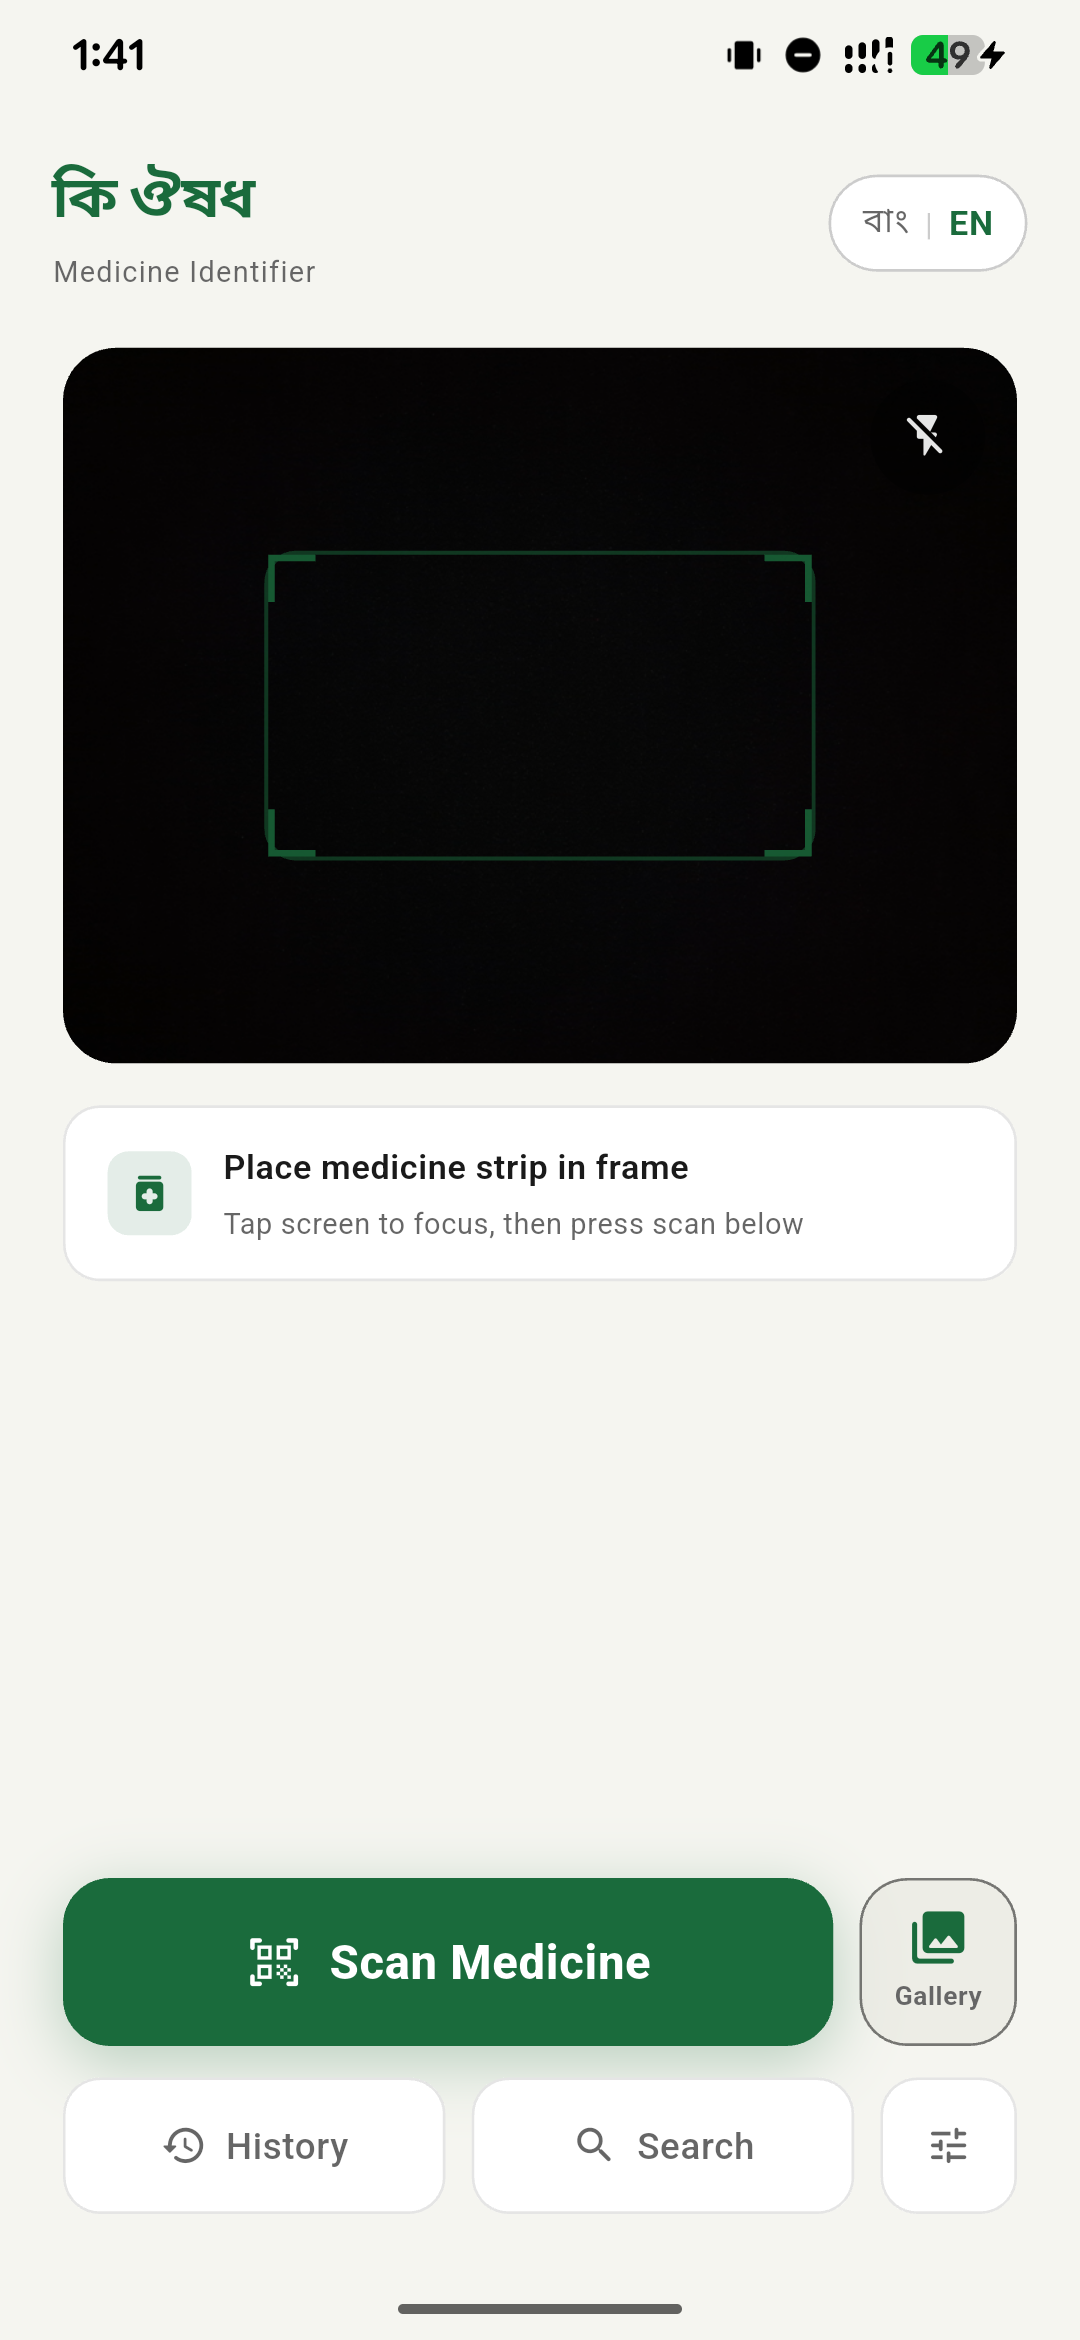
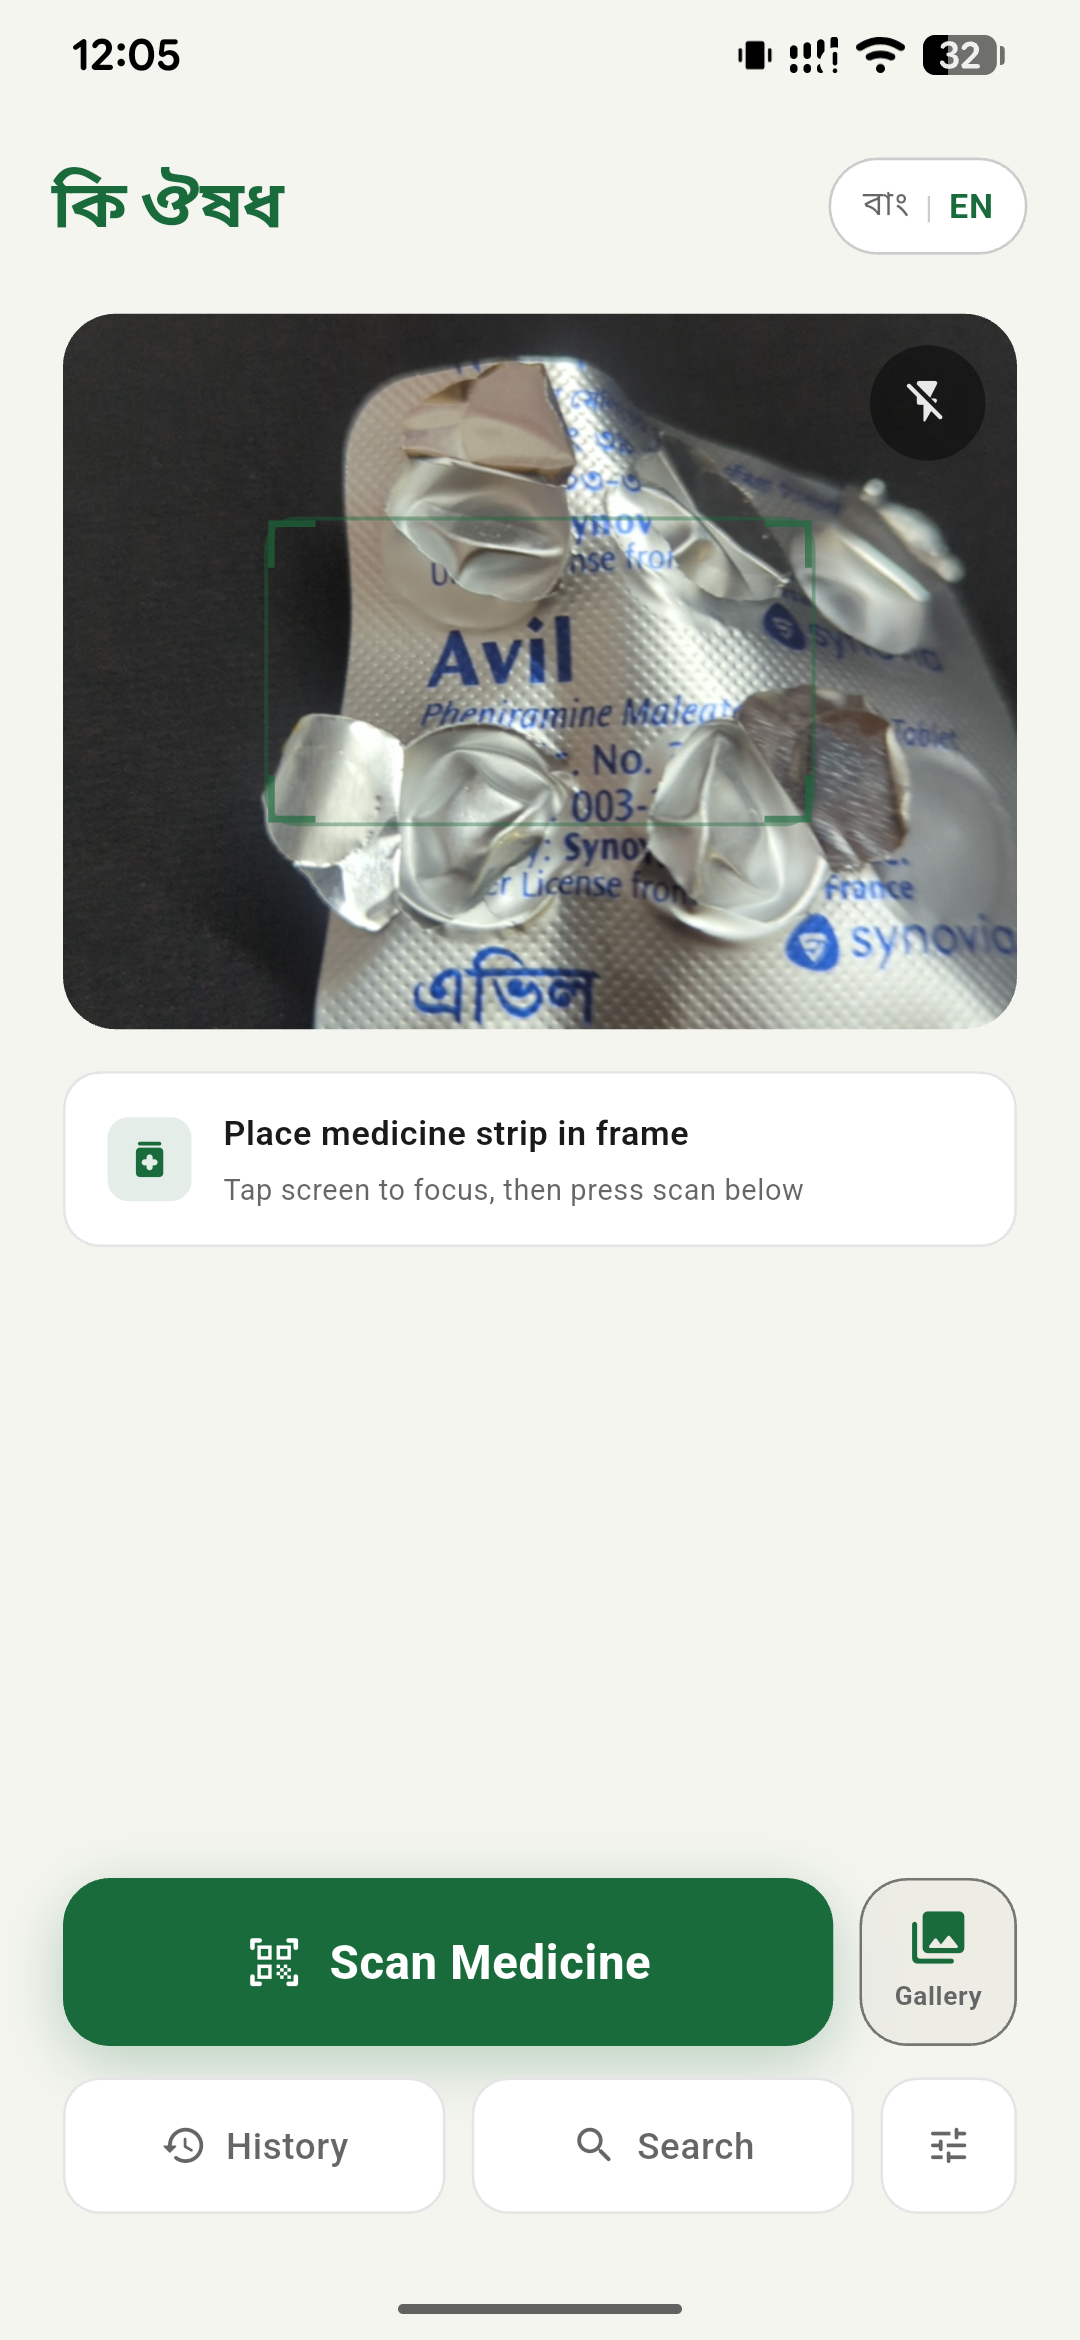
docs: update UI screenshots, fix release download links, and sync documentation

Changed region(s): [[0.0306, 0.0624, 0.9472, 0.5303], [0.6722, 0.0, 0.9472, 0.0312], [0.0917, 0.0, 0.1833, 0.0312]]

diff --git a/README.md b/README.md
@@ -15,7 +15,13 @@
 ---
 
 ## Download App (Direct Android Install)
-1. Tap **[Direct Download](https://github.com/meawsin/ki_oushodh/releases/latest/download/ki-oushudh-v1.1.0.apk)** on your Android device.
+
+| Version | Download Link | File Size | Highlights |
+|---|---|---|---|
+| **v1.1.0 (Latest)** | **[Download ki-oushudh-v1.1.0.apk](https://github.com/meawsin/ki_oushodh/releases/download/v1.1.0/ki-oushudh-v1.1.0.apk)** | ~84.6 MB | Gallery picker, offline search, TTS speed slider, UI polish |
+| **v1.0.0 (Legacy)** | **[Download ki-oushudh-v1.0.apk](https://github.com/meawsin/ki_oushodh/releases/download/v1.0.0/ki-oushudh-v1.0.apk)** | ~83.2 MB | Initial production release |
+
+1. Tap **[Direct Download v1.1.0](https://github.com/meawsin/ki_oushodh/releases/download/v1.1.0/ki-oushudh-v1.1.0.apk)** (or use the [Latest Release Mirror](https://github.com/meawsin/ki_oushodh/releases/latest/download/ki-oushudh-v1.1.0.apk)) on your Android device.
 2. Open `ki-oushudh-v1.1.0.apk` from your Downloads and tap **Install** (*enable "Install Unknown Apps" if prompted*).
 3. Open **কী ওষুধ**, grant camera permission, and scan any medicine packaging, blister packet, or pick an image from your gallery!
 
@@ -58,18 +64,18 @@ Ki Oushodh addresses this health equity gap through **Zero-Click Auditory Litera
   <img src="screenshots/06_database_info_sheet.png" width="31%" alt="DGDA Verified Offline Database Sheet" />
 </p>
 <p align="center">
-  <em>Figure 2: (Left) Identified Medicine Result with TTS, safety precautions, and Medical AI Disclaimer banner; (Center) Accessibility Settings with Voice Speed slider; (Right) Offline DGDA Database compendium sheet.</em>
+  <em>Figure 2: (Left) Identified Medicine Result with TTS, safety precautions, and Medical Disclaimer banner; (Center) Accessibility Settings with Voice Speed slider; (Right) Offline DGDA Database compendium sheet.</em>
 </p>
 
 <p align="center">
-  <img src="screenshots/07_safety_disclaimer_sheet.png" width="31%" alt="Medical and AI Safety Notice Modal Sheet" />
+  <img src="screenshots/07_gallery_picker.png" width="31%" alt="Native Android Photo Picker for Gallery Scanning" />
   &nbsp;&nbsp;
-  <img src="screenshots/08_gallery_picker.png" width="31%" alt="Native Android Photo Picker Integration" />
+  <img src="screenshots/08_gallery_picker_result.png" width="31%" alt="Result Found from Gallery Scanning" />
   &nbsp;&nbsp;
   <img src="screenshots/09_scan_history.png" width="31%" alt="Swipeable 30-Day Encrypted Local Scan History" />
 </p>
 <p align="center">
-  <em>Figure 3: (Left) Clinical Safety & Emergency 999 Guidance Bottom Sheet; (Center) Native Android photo picker for gallery scanning; (Right) Encrypted local scan history with audio replay.</em>
+  <em>Figure 3: (Left) Native Android photo picker for gallery scanning; (Center) Result found from the gallery scanning; (Right) Encrypted local scan history with audio replay.</em>
 </p>
 
 ---
@@ -227,7 +233,8 @@ You can install and test Ki Oushodh on any physical Android device without needi
 
 ### Option A: Download from GitHub Releases (Quickest)
 Directly download the pre-built standalone APK to your phone:
-- **[Download ki-oushudh-v1.1.0.apk](https://github.com/meawsin/ki_oushodh/releases/latest/download/ki-oushudh-v1.1.0.apk)** *(84.6 MB)*
+- 📲 **[Download ki-oushudh-v1.1.0.apk (Latest v1.1.0)](https://github.com/meawsin/ki_oushodh/releases/download/v1.1.0/ki-oushudh-v1.1.0.apk)** *(84.6 MB)*
+- 📦 **[Download ki-oushudh-v1.0.apk (v1.0.0)](https://github.com/meawsin/ki_oushodh/releases/download/v1.0.0/ki-oushudh-v1.0.apk)** *(83.2 MB)*
 - Or browse all releases on the **[GitHub Releases Page](https://github.com/meawsin/ki_oushodh/releases)**.
 
 ### Option B: Build the Release APK Locally
